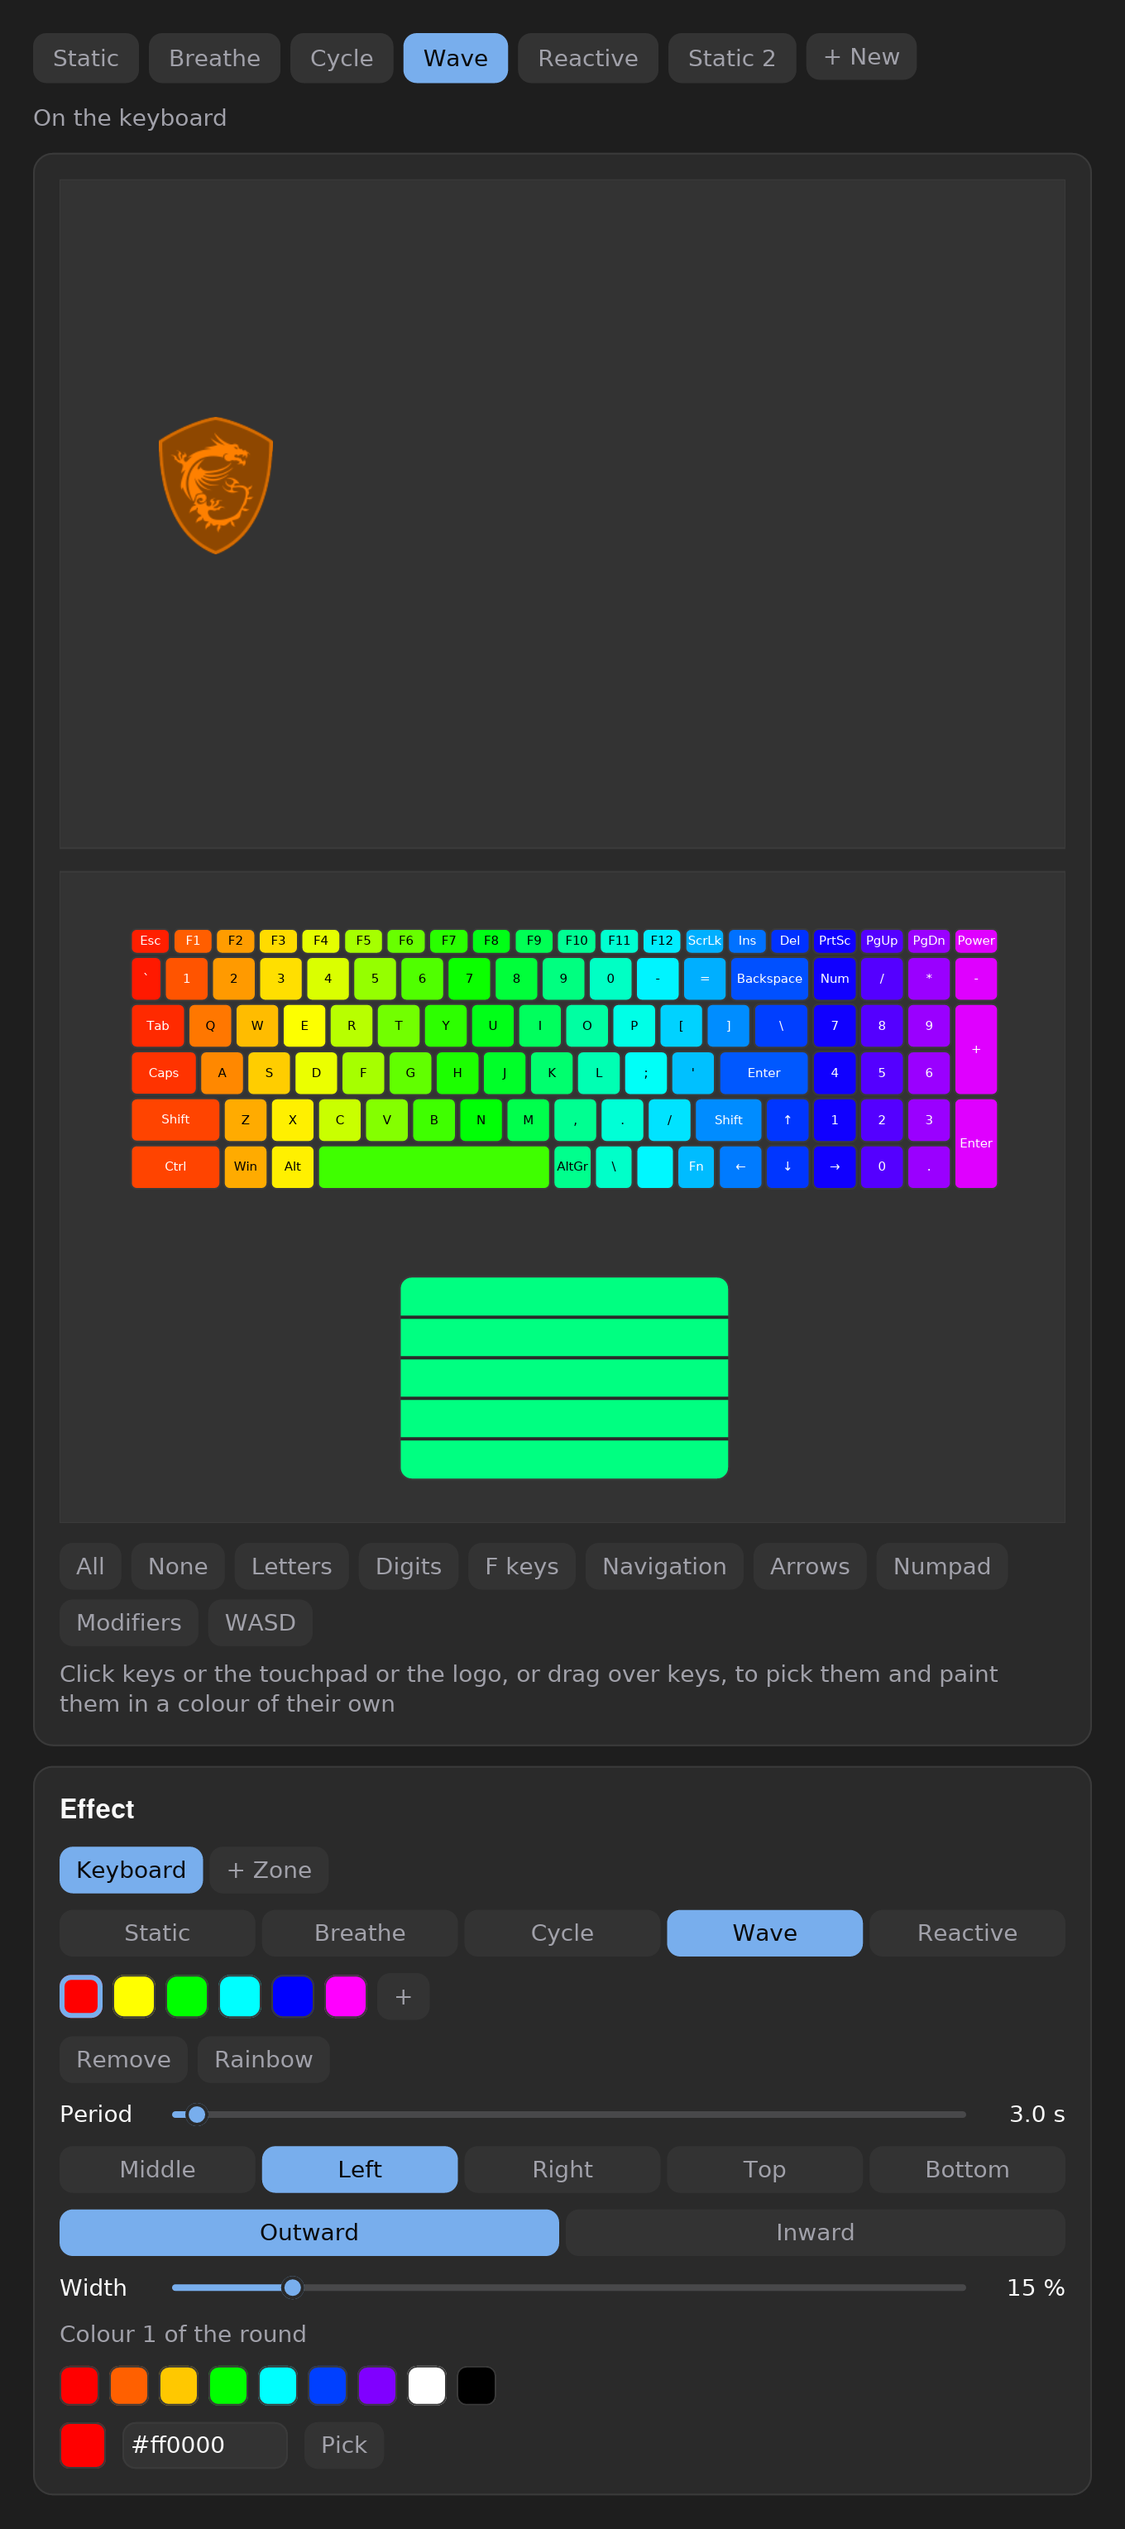
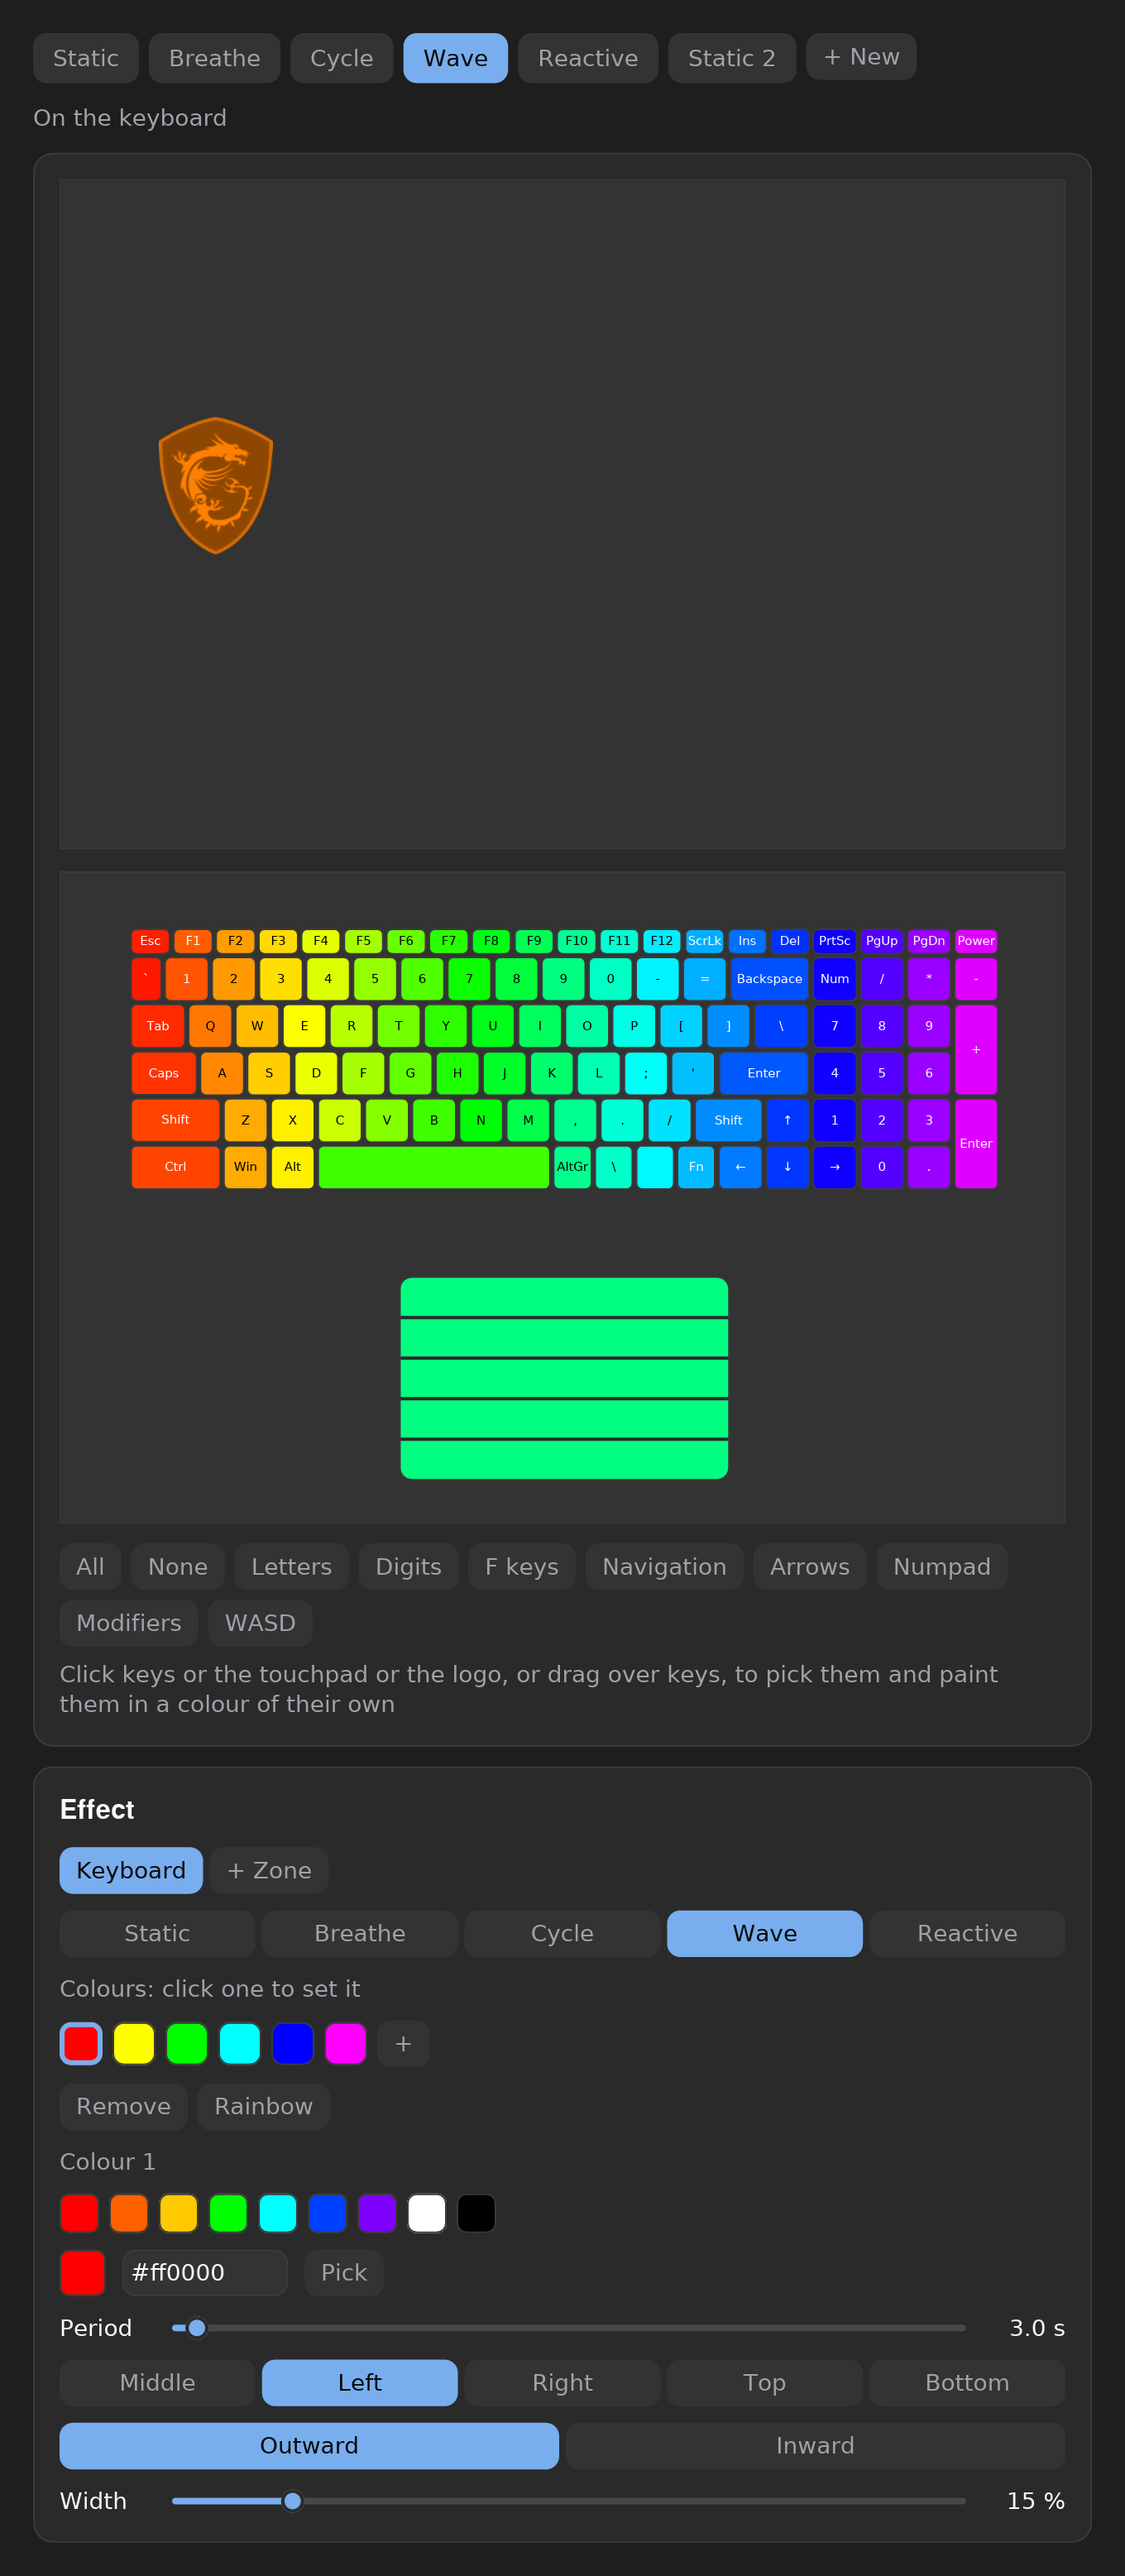
fix: colour a wave live, its colours' editor under them

diff --git a/crates/core/src/keyboard.rs b/crates/core/src/keyboard.rs
@@ -978,15 +978,52 @@ mod tests {
         assert_eq!(one_off.release, Release::Keys(vec![0x4f]));
         assert!(one_off.paint.is_empty());
 
+        // A wave's other colours, however many steps they take: live.
+        let wave = |colors: Vec<Color>| Lighting {
+            effect: Effect::Wave {
+                period_ms: 3000,
+                colors,
+                wave: Wave::default(),
+            },
+            ..lighting(Effect::Static, None)
+        };
+        let rainbow = send(&wave(RAINBOW.to_vec()), &back.sent);
+        assert_eq!(rainbow.restart, Some(Restart::Effects));
+        let tinted = send(
+            &wave(vec![
+                ORANGE,
+                BLUE,
+                Color([0x12, 0x34, 0x56]),
+                RAINBOW[3],
+                RAINBOW[4],
+                RAINBOW[5],
+            ]),
+            &rainbow.sent,
+        );
+        assert_eq!(tinted.restart, None);
+        // Its origin: a restart.
+        let left = Lighting {
+            effect: Effect::Wave {
+                period_ms: 3000,
+                colors: RAINBOW.to_vec(),
+                wave: Wave {
+                    origin: crate::lighting::Origin::Left,
+                    ..Wave::default()
+                },
+            },
+            ..lighting(Effect::Static, None)
+        };
+        assert_eq!(send(&left, &tinted.sent).restart, Some(Restart::Effects));
+
         // Another colour for the effect: live.
         let recolored = send(&breathe(ORANGE), &back.sent);
         assert_eq!(recolored.restart, None);
         assert!(recolored.packets.iter().any(|packet| packet[0] == 0x0b));
 
-        // Another effect: started over, under black.
+        // Another effect of another length: started over, under black.
         let cycle = Lighting {
             effect: Effect::Cycle {
-                period_ms: 2000,
+                period_ms: 3000,
                 colors: vec![BLUE, ORANGE],
             },
             ..breathe(BLUE)

diff --git a/crates/gui/src/lights.rs b/crates/gui/src/lights.rs
@@ -1382,6 +1382,9 @@ impl Editor {
             );
         }
         controls = controls.push(effects);
+        // A round's colours with what sets the one picked right under
+        // them, rather than below the wave's other settings.
+        let mut docked = false;
         match look.effect {
             Effect::Static => {
                 controls = controls.push(self.slot("The keys", Slot::Color));
@@ -1411,9 +1414,16 @@ impl Editor {
                     tools = tools.push(small("Rainbow", Msg::Rainbow));
                 }
                 controls = controls
+                    .push(
+                        text("Colours: click one to set it")
+                            .size(14)
+                            .style(theme::muted),
+                    )
                     .push(colors.wrap().vertical_spacing(6))
                     .push(tools)
+                    .push(self.dock())
                     .push(period);
+                docked = true;
                 if look.effect == Effect::Wave {
                     let origins = row(ORIGINS.map(|(origin, name)| {
                         choice(
@@ -1462,7 +1472,9 @@ impl Editor {
                     );
             }
         }
-        controls = controls.push(self.dock());
+        if !docked {
+            controls = controls.push(self.dock());
+        }
         panel("Effect", controls)
     }
 
@@ -1530,7 +1542,7 @@ impl Editor {
             },
             Slot::FadeTo => "Fading to".to_owned(),
             Slot::Flash => "A pressed key's".to_owned(),
-            Slot::Round(i) => format!("Colour {} of the round", i + 1),
+            Slot::Round(i) => format!("Colour {}", i + 1),
         };
         let swatches = row(SWATCHES.map(|color| {
             button(space().width(24).height(24))

diff --git a/crates/core/src/steelseries.rs b/crates/core/src/steelseries.rs
@@ -163,10 +163,12 @@ impl Class {
     }
 }
 
-/// What of an effect the controller takes only at a restart: all but its
-/// steps' colours and its start colour, which it reads live.
-pub(crate) fn shape(packet: &[u8; FEATURE_LEN]) -> (&[u8], &[u8]) {
-    (&packet[..2], &packet[0x8c..])
+/// What of an effect the controller takes only at a restart: its wave
+/// and its length; its steps, however many, and its start colour it reads
+/// live. A colour's steps depend on the colours, so their count changes
+/// with them.
+pub(crate) fn shape(packet: &[u8; FEATURE_LEN]) -> [&[u8]; 3] {
+    [&packet[..2], &packet[0x8c..0x96], &packet[0x98..]]
 }
 
 /// A table slot for `target`, a key's HID usage or a zone: `[colour] [flash
